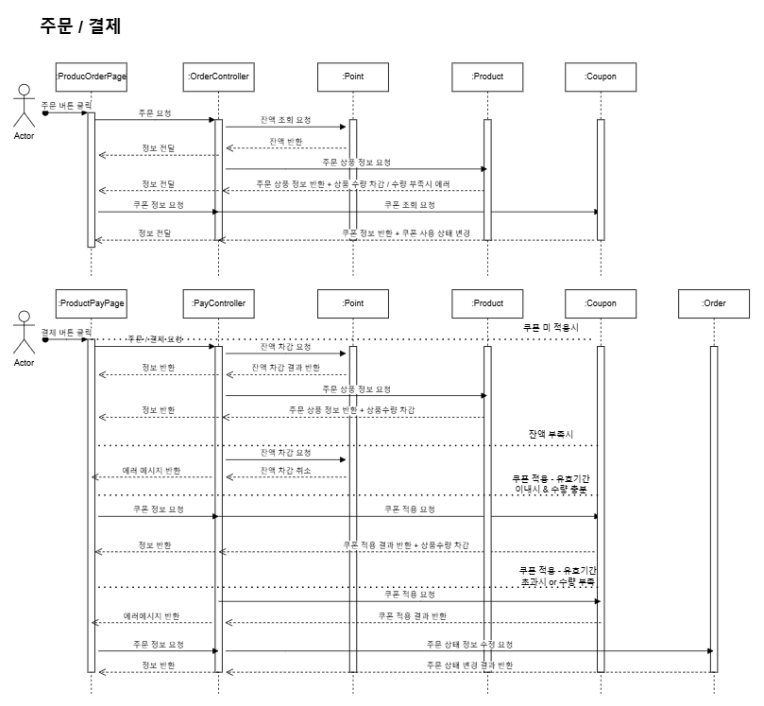
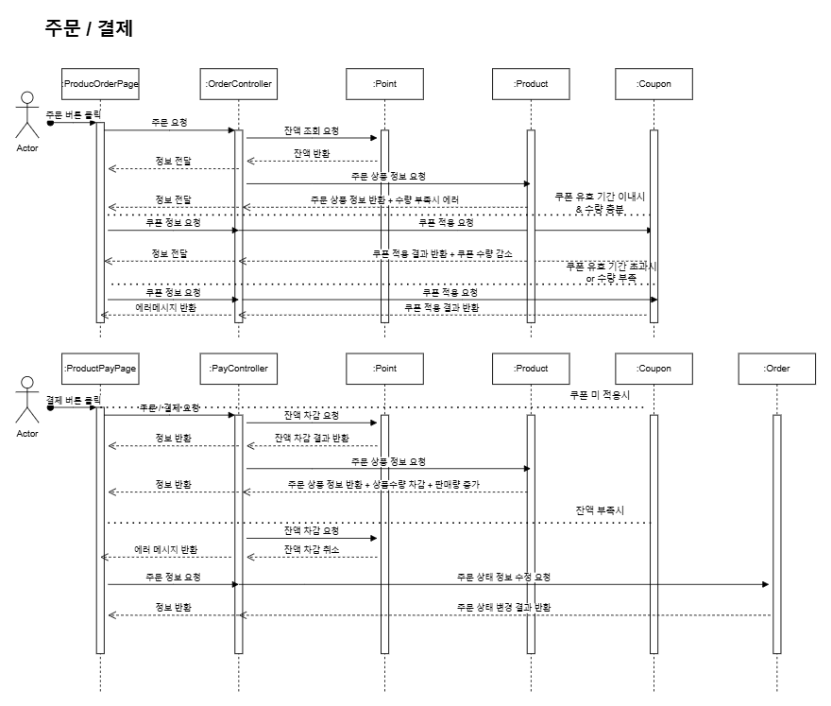
docs: 리뉴얼 된 주문/결제 시퀀스 주문에 쿠폰 적용 결제에 포인트 차감 + 상품 수량 차감 + 판매량 증가

diff --git a/src/main/java/kr/hhplus/be/server/domain/payment/service/PaymentService.java b/src/main/java/kr/hhplus/be/server/domain/payment/service/PaymentService.java
@@ -26,7 +26,7 @@ import java.util.List;
 @Slf4j
 @RequiredArgsConstructor
 public class PaymentService {
-
+    //TODO: 결제에 쿠폰 적용 빼기->주문으로 이동, 상품 수량 감소, 판매량 증가, 주문상태 변경, 포인트차감만 넣기
     private final PaymentRepository paymentRepository;
     private final ProductRepository productRepository;
     private final CouponRepository couponRepository;
@@ -69,8 +69,8 @@ public class PaymentService {
                 .discountPrice(discountPrice).build();
 
         Payment savedPayment = paymentRepository.save(newPayment);
-        //상품수량 감소
-        productRepository.productQuantityDecrease(savedPayment.getProductId());
+        //상품수량 감소 -> 주문으로 이동
+        //productRepository.productQuantityDecrease(savedPayment.getProductId());
         //판매량 수량 추가
         productRepository.productSalesIncrease(savedPayment.getProductId());
 
@@ -84,7 +84,7 @@ public class PaymentService {
         return quantity * price;
     }
 
-    //할인 가격 계산
+    // 할인 가격 계산
     public Integer calculateDiscountPrice(int originPrice, long userId, long couponId) {
 
         UserCoupon userCoupon = couponRepository.findUserCouponInfo(userId, couponId)
@@ -97,7 +97,7 @@ public class PaymentService {
         return (originPrice * (100- coupon.getPercent()) / 100);
     }
 
-    //결제 내역 조회
+    // 결제 내역 조회
     public List<PaymentResponse> getPaymentList(long userId) {
         List<Payment> paymentList = paymentRepository.getPaymentList(userId);
         List<PaymentResponse> response = new ArrayList<>();

diff --git a/src/main/java/kr/hhplus/be/server/domain/order/service/OrderService.java b/src/main/java/kr/hhplus/be/server/domain/order/service/OrderService.java
@@ -1,5 +1,6 @@
 package kr.hhplus.be.server.domain.order.service;
 
+import kr.hhplus.be.server.domain.coupon.repository.CouponRepository;
 import kr.hhplus.be.server.domain.error.CustomException;
 import kr.hhplus.be.server.domain.error.ErrorCode;
 import kr.hhplus.be.server.domain.order.entity.Order;
@@ -23,6 +24,8 @@ public class OrderService {
 
     private final OrderRepository orderRepository;
     private final ProductRepository productRepository;
+    private final CouponRepository couponRepository;
+
     // 주문하기
     @Transactional
     public OrderResponse orderProduct(Order order){
@@ -34,6 +37,9 @@ public class OrderService {
         if(product.getQuantity() <= 0){
             throw new CustomException(ErrorCode.ITEM_QUANTITY_ZERO);
         }
+
+        // 주문에 쿠폰 적용
+
 
         return response;
     }
